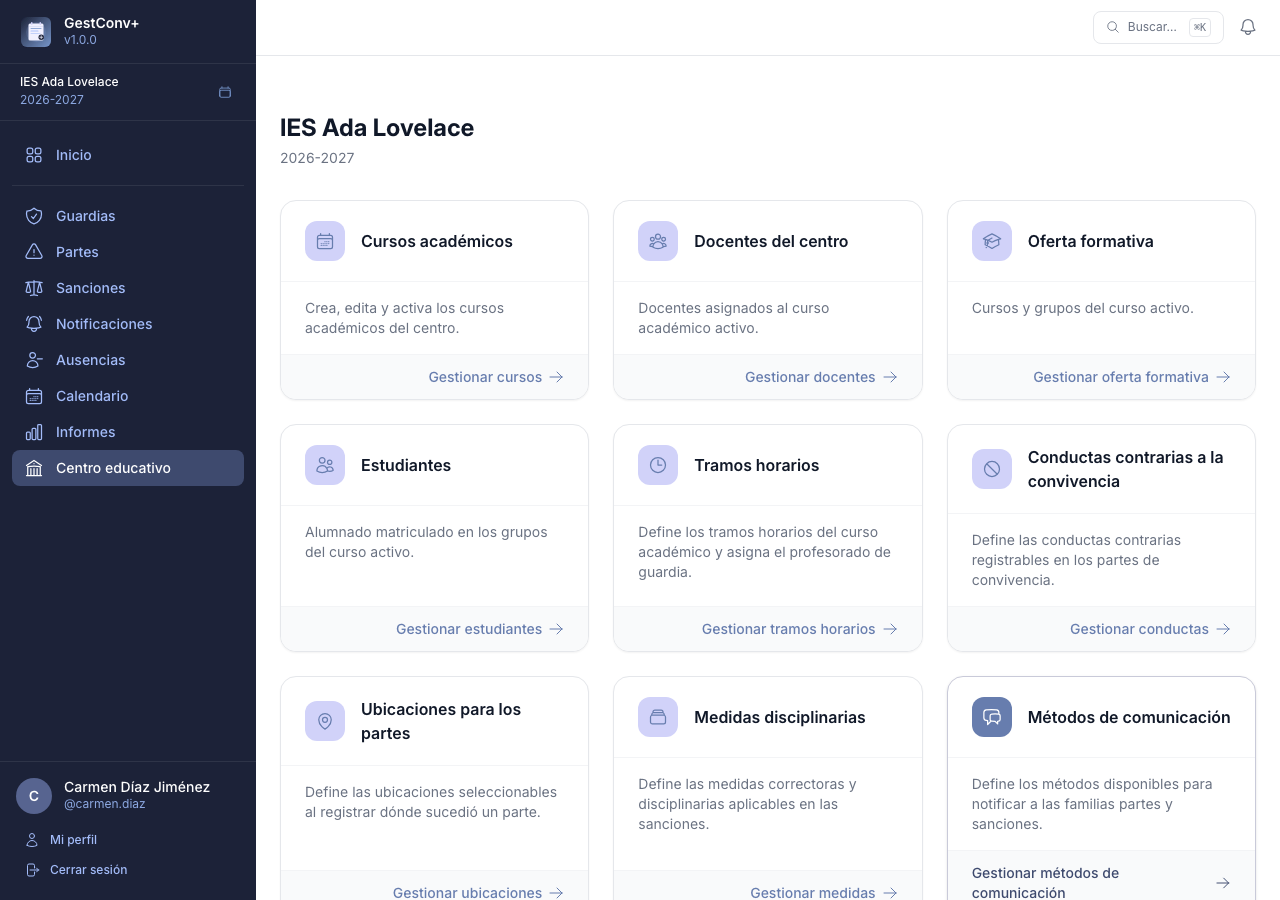
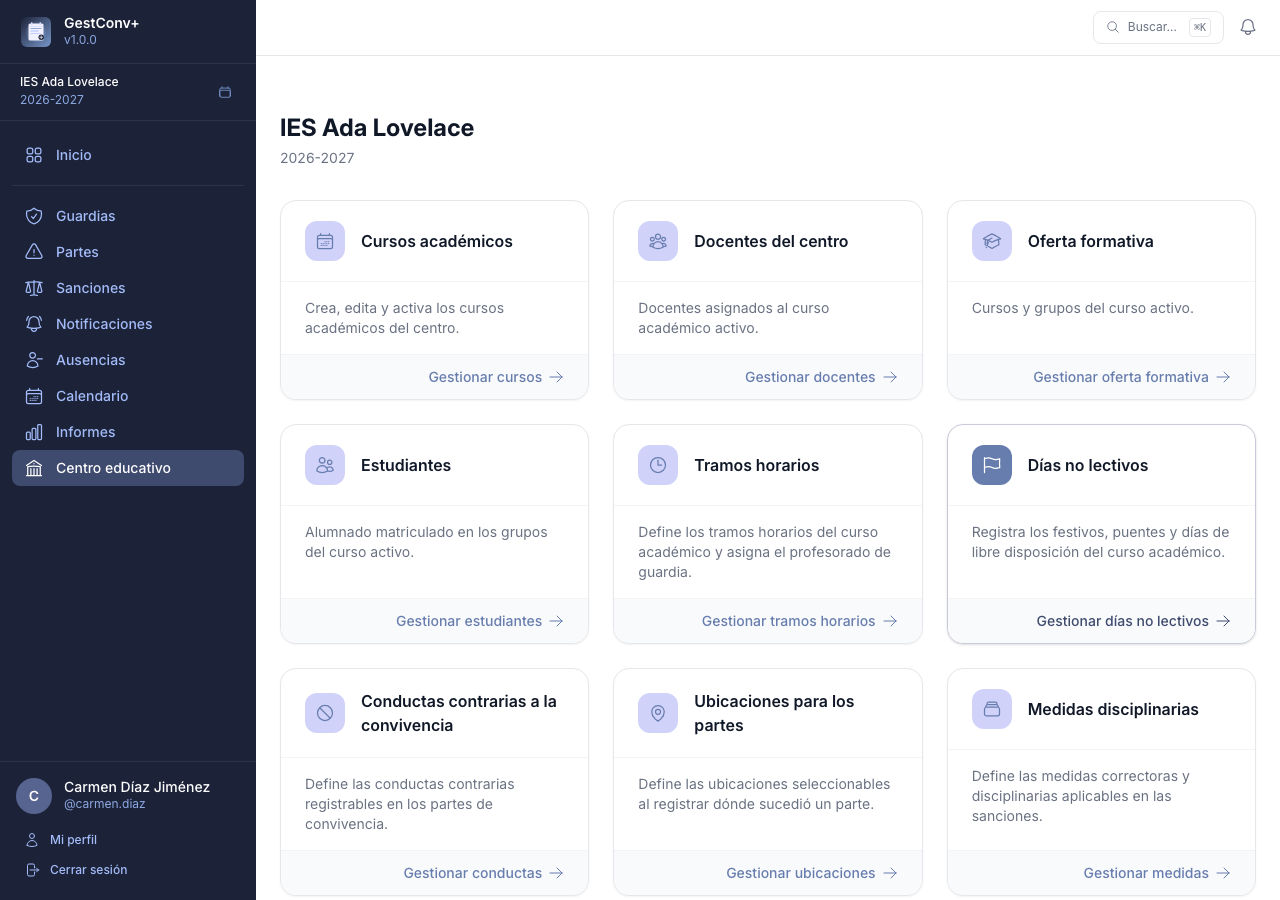
docs(cheatsheets): añade el paso de días no lectivos a la ficha de curso nuevo
La ficha «Configurar un curso académico nuevo» documentaba la puesta a punto
completa de un centro salvo la definición de festivos y puentes, un paso
imprescindible para que calendario, tablón, guardias y las fechas de
sanciones/ausencias funcionen correctamente durante el curso.

diff --git a/docs/cheatsheets/curso-nuevo.md b/docs/cheatsheets/curso-nuevo.md
@@ -46,6 +46,12 @@ footer: 'v{{VERSION}} ({{PUB_DATE}}) · GestConv+'
 
 <div class="step">
   <span class="num">7</span>
+  <div class="text"><p>Definir los días no lectivos (festivos y puentes), importándolos desde el
+  calendario escolar oficial.</p></div>
+</div>
+
+<div class="step">
+  <span class="num">8</span>
   <div class="text"><p>Revisar conductas, medidas, ubicaciones, métodos de comunicación y
   perfiles de comisión/orientación.</p></div>
 </div>
@@ -205,7 +211,37 @@ footer: 'v{{VERSION}} ({{PUB_DATE}}) · GestConv+'
 
 <p class="kicker">GestConv+ · Ficha rápida · Equipo directivo</p>
 
-# 7. Revisar los catálogos del centro
+# 7. Definir los días no lectivos
+
+<div class="steps sin-capturas">
+
+<div class="step">
+  <span class="num">1</span>
+  <div class="text">
+    <p>Desde <strong>Centro educativo › Días no lectivos › Importar</strong>, sube el fichero
+    <strong>.ics</strong> del calendario escolar oficial. La pantalla enlaza directamente a la
+    Secretaría Virtual de la Consejería de Educación, de donde se descarga.</p>
+    <p>Se dan de alta de golpe todos los festivos y puentes del fichero; las fechas repetidas se
+    detectan y no se duplican, así que el mismo fichero se puede reimportar sin riesgo. También se
+    pueden añadir, editar o eliminar días sueltos a mano, uno a uno.</p>
+    <img class="captura-escritorio" src="img/curso-nuevo-16-dias-no-lectivos.png" alt="Listado de días no lectivos del curso tras importar el calendario escolar">
+  </div>
+</div>
+
+</div>
+
+<div class="nota">
+  <p>Una vez declarados, se reflejan en toda la aplicación: se marcan en el calendario y el
+  tablón, guardias avisa de ellos y salta el fin de semana al navegar día a día, la sanción
+  muestra un contador de días lectivos entre inicio y fin, y ningún selector de fecha (sanciones,
+  ausencias, actividades) permite ya elegir un día no lectivo.</p>
+</div>
+
+---
+
+<p class="kicker">GestConv+ · Ficha rápida · Equipo directivo</p>
+
+# 8. Revisar los catálogos del centro
 
 <div class="steps sin-capturas">
 
@@ -262,9 +298,9 @@ footer: 'v{{VERSION}} ({{PUB_DATE}}) · GestConv+'
   <span class="num">✓</span>
   <div class="text">
     <p>Con los pasos anteriores, el curso <strong>2026-2027</strong> queda activo, con su
-    profesorado, alumnado, oferta formativa, tutorías, tramos horarios y catálogos revisados.
-    Solo falta asignar los perfiles de comisión de convivencia y orientación (ver el capítulo
-    «Administrar el centro educativo» del manual).</p>
+    profesorado, alumnado, oferta formativa, tutorías, tramos horarios, días no lectivos y
+    catálogos revisados. Solo falta asignar los perfiles de comisión de convivencia y orientación
+    (ver el capítulo «Administrar el centro educativo» del manual).</p>
     <img class="captura-escritorio" src="img/curso-nuevo-14-centro-listo.png" alt="Panel de Centro educativo con el curso 2026-2027 activo y todas las secciones disponibles">
   </div>
 </div>
